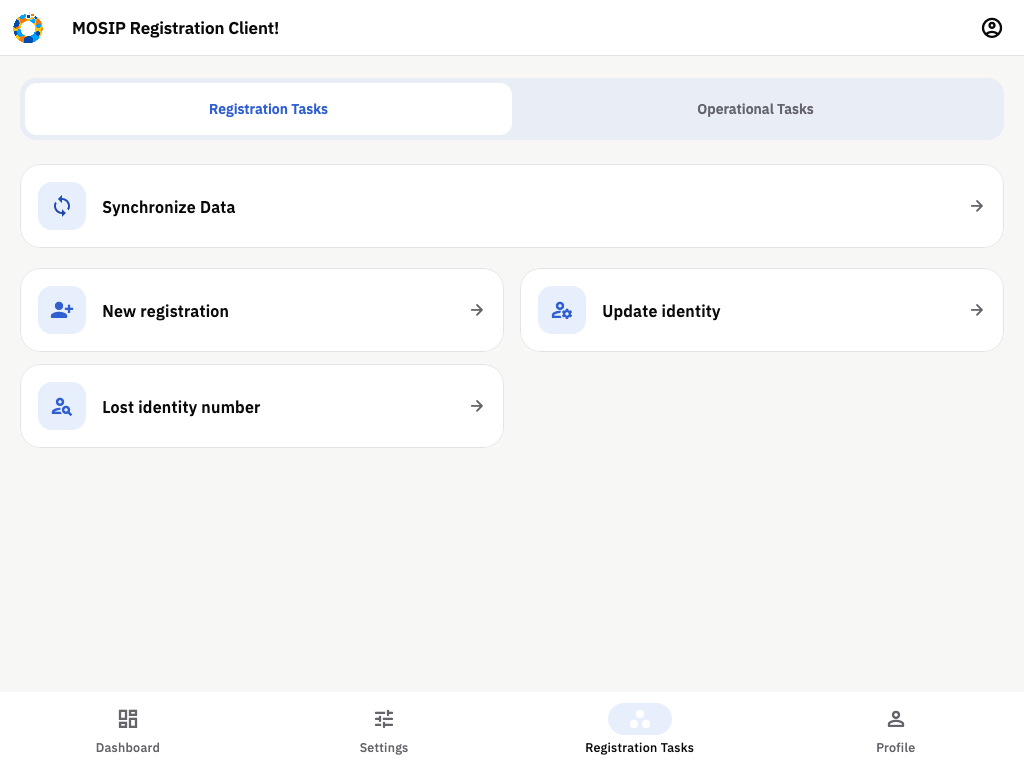
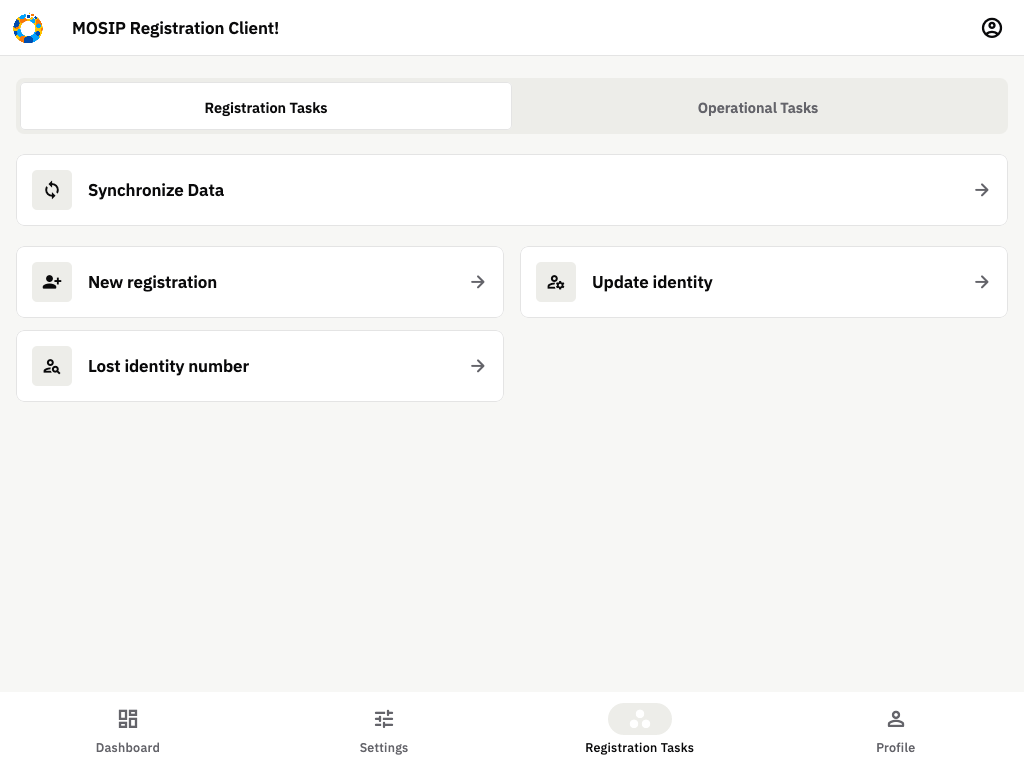
feat(ui): restyle home and task cards to the Desktop task list
Hairline task cards with sunken icon tiles, Desktop segmented control for
the task tabs, themed bottom navigation with a top hairline, EmptyState for
an empty process list. Motion: cards stagger in (<600ms), home fades in once
after login, sync icon turns while a global sync runs; all skipped under
reduced motion.

diff --git a/lib/ui/onboard/portrait/tasks_page.dart b/lib/ui/onboard/portrait/tasks_page.dart
@@ -12,7 +12,6 @@ import 'package:registration_client/model/process.dart';
 import 'package:registration_client/provider/global_provider.dart';
 import 'package:registration_client/ui/onboard/portrait/operational_tasks.dart';
 import 'package:registration_client/ui/onboard/portrait/registration_tasks.dart';
-import 'package:registration_client/utils/app_config.dart';
 import 'package:flutter_gen/gen_l10n/app_localizations.dart';
 
 class TasksPage extends StatefulWidget {
@@ -46,12 +45,14 @@ class _TasksPageState extends State<TasksPage> {
       child: Column(
         children: [
           Padding(
-            padding: const EdgeInsets.fromLTRB(20, 8, 20, 0),
+            padding: const EdgeInsets.fromLTRB(RegistrationTheme.gutterPhone,
+                RegistrationTheme.s2, RegistrationTheme.gutterPhone, 0),
+            // Desktop segmented control: sunken track, white selected segment.
             child: Container(
-              padding: const EdgeInsets.all(5),
+              padding: const EdgeInsets.all(RegistrationTheme.s1),
               decoration: BoxDecoration(
-                  color: const Color(0xFFE8EDF6),
-                  borderRadius: BorderRadius.circular(16)),
+                  color: RegistrationTheme.sunken,
+                  borderRadius: BorderRadius.circular(RegistrationTheme.rLg)),
               child: LayoutBuilder(
                   builder: (context, constraints) => Wrap(
                       children: List.generate(
@@ -73,16 +74,22 @@ class _TasksPageState extends State<TasksPage> {
                                       setState(() => currentIndex = index);
                                     },
                                     style: TextButton.styleFrom(
-                                        minimumSize: const Size(48, 52),
+                                        minimumSize: const Size(
+                                            RegistrationTheme.minTouch,
+                                            RegistrationTheme.minTouch),
                                         backgroundColor: currentIndex == index
-                                            ? Colors.white
+                                            ? RegistrationTheme.card
                                             : Colors.transparent,
                                         foregroundColor: currentIndex == index
-                                            ? appSolidPrimary
+                                            ? RegistrationTheme.ink
                                             : RegistrationTheme.muted,
+                                        side: currentIndex == index
+                                            ? const BorderSide(
+                                                color: RegistrationTheme.line)
+                                            : BorderSide.none,
                                         shape: RoundedRectangleBorder(
-                                            borderRadius:
-                                                BorderRadius.circular(12))),
+                                            borderRadius: BorderRadius.circular(
+                                                RegistrationTheme.r))),
                                     child: Text(
                                         index == 0
                                             ? AppLocalizations.of(context)!
@@ -90,9 +97,12 @@ class _TasksPageState extends State<TasksPage> {
                                             : AppLocalizations.of(context)!
                                                 .operation_tasks,
                                         textAlign: TextAlign.center,
-                                        style: const TextStyle(
-                                            fontSize: 14,
-                                            fontWeight: FontWeight.w600)),
+                                        style: RegistrationTheme.small
+                                            .copyWith(
+                                                fontWeight: FontWeight.w600,
+                                                color: currentIndex == index
+                                                    ? RegistrationTheme.ink
+                                                    : RegistrationTheme.muted)),
                                   ),
                                 ),
                               )))),
@@ -110,9 +120,7 @@ class _TasksPageState extends State<TasksPage> {
               : OperationalTasks(
                   operationalTasks: widget.operationalTasks,
                 ),
-          SizedBox(
-            height: 24,
-          ),
+          const SizedBox(height: RegistrationTheme.s6),
         ],
       ),
     );

diff --git a/lib/ui/onboard/portrait/registration_tasks.dart b/lib/ui/onboard/portrait/registration_tasks.dart
@@ -1,14 +1,14 @@
 import 'dart:convert';
 import 'package:flutter/material.dart';
-import 'package:flutter_svg/flutter_svg.dart';
 import 'package:provider/provider.dart';
 import 'package:flutter_gen/gen_l10n/app_localizations.dart';
 import 'package:registration_client/model/process.dart';
 import 'package:registration_client/provider/global_provider.dart';
 import 'package:registration_client/provider/registration_task_provider.dart';
+import 'package:registration_client/provider/sync_provider.dart';
+import 'package:registration_client/ui/theme/components.dart';
 import 'package:registration_client/ui/onboard/widgets/home_page_card.dart';
 import 'package:registration_client/ui/theme/registration_theme.dart';
-import 'package:registration_client/utils/app_config.dart';
 
 class RegistrationTasks extends StatelessWidget {
   const RegistrationTasks(
@@ -22,34 +22,30 @@ class RegistrationTasks extends StatelessWidget {
     final language = context.watch<GlobalProvider>().selectedLanguage;
     final l = AppLocalizations.of(context)!;
     return Padding(
-      padding: const EdgeInsets.fromLTRB(20, 24, 20, 12),
+      padding: const EdgeInsets.fromLTRB(
+          RegistrationTheme.gutterPhone,
+          RegistrationTheme.s5,
+          RegistrationTheme.gutterPhone,
+          RegistrationTheme.s3),
       child: Column(crossAxisAlignment: CrossAxisAlignment.stretch, children: [
         HomePageCard(
             index: 0,
-            icon: SvgPicture.asset(syncDataIcon),
+            // Turns while a global sync runs (motion moment 6).
+            icon: SyncSpinner(
+                active: context.watch<SyncProvider>().isGlobalSyncInProgress),
             title: l.synchronize_data,
             subtitle: null,
             ontap: () => syncData(context)),
-        const SizedBox(height: 8),
+        const SizedBox(height: RegistrationTheme.s2),
         if (entries.isEmpty)
-          Container(
-              padding: const EdgeInsets.all(24),
-              decoration: RegistrationTheme.surface(),
-              child: Column(children: [
-                const Icon(Icons.workspaces_outline,
-                    size: 32, color: RegistrationTheme.muted),
-                const SizedBox(height: 12),
-                Text(l.registration_tasks,
-                    style: const TextStyle(
-                        fontWeight: FontWeight.w600,
-                        color: RegistrationTheme.ink)),
-                const SizedBox(height: 8),
-                Text(l.synchronize_data,
-                    style: const TextStyle(color: RegistrationTheme.muted)),
-              ])),
+          Panel(
+              child: EmptyState(
+                  icon: Icons.workspaces_outline,
+                  title: l.registration_tasks,
+                  message: l.synchronize_data)),
         LayoutBuilder(
             builder: (context, constraints) => Wrap(
-                  spacing: 16,
+                  spacing: RegistrationTheme.s4,
                   children: List.generate(entries.length, (index) {
                     final process =
                         Process.fromJson(jsonDecode(entries[index].toString()));
@@ -61,12 +57,12 @@ class RegistrationTasks extends StatelessWidget {
                             : l.registration_tasks);
                     return SizedBox(
                         width: constraints.maxWidth >= 620
-                            ? (constraints.maxWidth - 16) / 2
+                            ? (constraints.maxWidth - RegistrationTheme.s4) /
+                                2
                             : constraints.maxWidth,
                         child: HomePageCard(
                             index: index + 1,
-                            icon: Icon(_processIcon(process.flow),
-                                color: appSolidPrimary),
+                            icon: Icon(_processIcon(process.flow)),
                             title: title,
                             subtitle: null,
                             ontap: () => getProcessUI(context, process)));

diff --git a/lib/ui/onboard/widgets/home_page_card.dart b/lib/ui/onboard/widgets/home_page_card.dart
@@ -2,6 +2,7 @@ import 'package:flutter/material.dart';
 import 'package:intl/intl.dart';
 import 'package:provider/provider.dart';
 import 'package:registration_client/provider/sync_provider.dart';
+import 'package:registration_client/ui/theme/components.dart';
 import 'package:registration_client/ui/theme/registration_theme.dart';
 
 class HomePageCard extends StatelessWidget {
@@ -27,51 +28,42 @@ class HomePageCard extends StatelessWidget {
       if (time != null)
         detail = DateFormat('d MMM, h:mm a').format(time.toLocal());
     }
-    return Padding(
-        padding: const EdgeInsets.only(bottom: 12),
-        child: Material(
-          color: Colors.white,
-          shape: RoundedRectangleBorder(
-              borderRadius: BorderRadius.circular(20),
-              side: const BorderSide(color: RegistrationTheme.line)),
-          clipBehavior: Clip.antiAlias,
-          child: InkWell(
-            onTap: ontap,
-            child: Padding(
-                padding: const EdgeInsets.all(18),
+    // Desktop task card: hairline panel, icon tile, title, arrow. Cards rise
+    // in with a short stagger on first build (motion moment 2).
+    return FadeRise(
+        delay: FadeRise.staggerFor(index),
+        child: Padding(
+            padding: const EdgeInsets.only(bottom: RegistrationTheme.s3),
+            child: Panel(
+              onTap: ontap,
+              padding: const EdgeInsets.symmetric(
+                  horizontal: RegistrationTheme.s4,
+                  vertical: RegistrationTheme.s4),
+              child: ConstrainedBox(
+                constraints: const BoxConstraints(
+                    minHeight: RegistrationTheme.iconTile),
                 child: Row(children: [
-                  Container(
-                      width: 48,
-                      height: 48,
-                      padding: const EdgeInsets.all(12),
-                      decoration: BoxDecoration(
-                          color: RegistrationTheme.softBlue,
-                          borderRadius: BorderRadius.circular(14)),
-                      child: ExcludeSemantics(child: icon)),
-                  const SizedBox(width: 16),
+                  IconTile(
+                      child: Padding(
+                          padding: const EdgeInsets.all(RegistrationTheme.s2),
+                          child: ExcludeSemantics(child: icon))),
+                  const SizedBox(width: RegistrationTheme.s4),
                   Expanded(
                       child: Column(
                           crossAxisAlignment: CrossAxisAlignment.start,
                           children: [
-                        Text(title,
-                            style: const TextStyle(
-                                fontFamily: 'IBMPlexSans',
-                                fontSize: 16,
-                                fontWeight: FontWeight.w600,
-                                color: RegistrationTheme.ink)),
+                        Text(title, style: RegistrationTheme.heading),
                         if (detail != null && detail.isNotEmpty) ...[
-                          const SizedBox(height: 4),
-                          Text(detail,
-                              style: const TextStyle(
-                                  fontSize: 13,
-                                  color: RegistrationTheme.muted)),
+                          const SizedBox(height: 2),
+                          Text(detail, style: RegistrationTheme.xs),
                         ],
                       ])),
-                  const SizedBox(width: 12),
+                  const SizedBox(width: RegistrationTheme.s3),
                   const Icon(Icons.arrow_forward_rounded,
-                      size: 18, color: RegistrationTheme.muted),
-                ])),
-          ),
-        ));
+                      size: RegistrationTheme.iconInline,
+                      color: RegistrationTheme.muted),
+                ]),
+              ),
+            )));
   }
 }

diff --git a/lib/ui/onboard/portrait/mobile_home_page.dart b/lib/ui/onboard/portrait/mobile_home_page.dart
@@ -6,6 +6,7 @@
 */
 
 import 'package:flutter/material.dart';
+import 'package:registration_client/ui/theme/components.dart';
 import 'package:registration_client/ui/theme/registration_theme.dart';
 import 'package:flutter_screenutil/flutter_screenutil.dart';
 import 'package:registration_client/model/process.dart';
@@ -87,22 +88,25 @@ class _MobileHomePageState extends State<MobileHomePage> {
             appBar: AppBar(
                 title: Text(AppLocalizations.of(context)!.community_reg_text),
                 leading: Padding(
-                    padding: const EdgeInsets.all(12),
+                    padding: const EdgeInsets.all(RegistrationTheme.s3),
                     child: Image.asset(appIconLogoOnly)),
                 actions: [
                   IconButton(
                       tooltip: AppLocalizations.of(context)!.profile,
                       onPressed: () => changeTab(3),
                       icon: const Icon(Icons.account_circle_outlined)),
-                  const SizedBox(width: 8)
+                  const SizedBox(width: RegistrationTheme.s2)
                 ]),
             bottomNavigationBar: _getBottomNavigationBar(),
-            body: Column(
-              children: [
-                Expanded(
-                  child: bottomNavPages[selectedTab],
-                ),
-              ],
+            // Fades in once after login (motion moment 1).
+            body: FadeRise(
+              child: Column(
+                children: [
+                  Expanded(
+                    child: bottomNavPages[selectedTab],
+                  ),
+                ],
+              ),
             ),
           ),
         ));
@@ -110,29 +114,33 @@ class _MobileHomePageState extends State<MobileHomePage> {
 
   _getBottomNavigationBar() {
     final l = AppLocalizations.of(context)!;
-    return NavigationBar(
-      selectedIndex: selectedTab,
-      onDestinationSelected: changeTab,
-      backgroundColor: Colors.white,
-      indicatorColor: RegistrationTheme.softBlue,
-      elevation: 0,
-      height: 76,
-      destinations: [
-        NavigationDestination(
-            icon: const Icon(Icons.dashboard_outlined),
-            selectedIcon: const Icon(Icons.dashboard_rounded),
-            label: l.dashboard),
-        NavigationDestination(
-            icon: const Icon(Icons.tune_rounded), label: l.settings),
-        NavigationDestination(
-            icon: const Icon(Icons.workspaces_outline),
-            selectedIcon: const Icon(Icons.workspaces_rounded),
-            label: l.registration_tasks),
-        NavigationDestination(
-            icon: const Icon(Icons.person_outline_rounded),
-            selectedIcon: const Icon(Icons.person_rounded),
-            label: l.profile),
-      ],
+    // Colours come from the theme; hairline on top like Desktop panels.
+    // 76 tall leaves room for two-line translated labels.
+    return DecoratedBox(
+      decoration: const BoxDecoration(
+          border: Border(top: BorderSide(color: RegistrationTheme.line))),
+      child: NavigationBar(
+        selectedIndex: selectedTab,
+        onDestinationSelected: changeTab,
+        elevation: 0,
+        height: 76,
+        destinations: [
+          NavigationDestination(
+              icon: const Icon(Icons.dashboard_outlined),
+              selectedIcon: const Icon(Icons.dashboard_rounded),
+              label: l.dashboard),
+          NavigationDestination(
+              icon: const Icon(Icons.tune_rounded), label: l.settings),
+          NavigationDestination(
+              icon: const Icon(Icons.workspaces_outline),
+              selectedIcon: const Icon(Icons.workspaces_rounded),
+              label: l.registration_tasks),
+          NavigationDestination(
+              icon: const Icon(Icons.person_outline_rounded),
+              selectedIcon: const Icon(Icons.person_rounded),
+              label: l.profile),
+        ],
+      ),
     );
   }
 }
